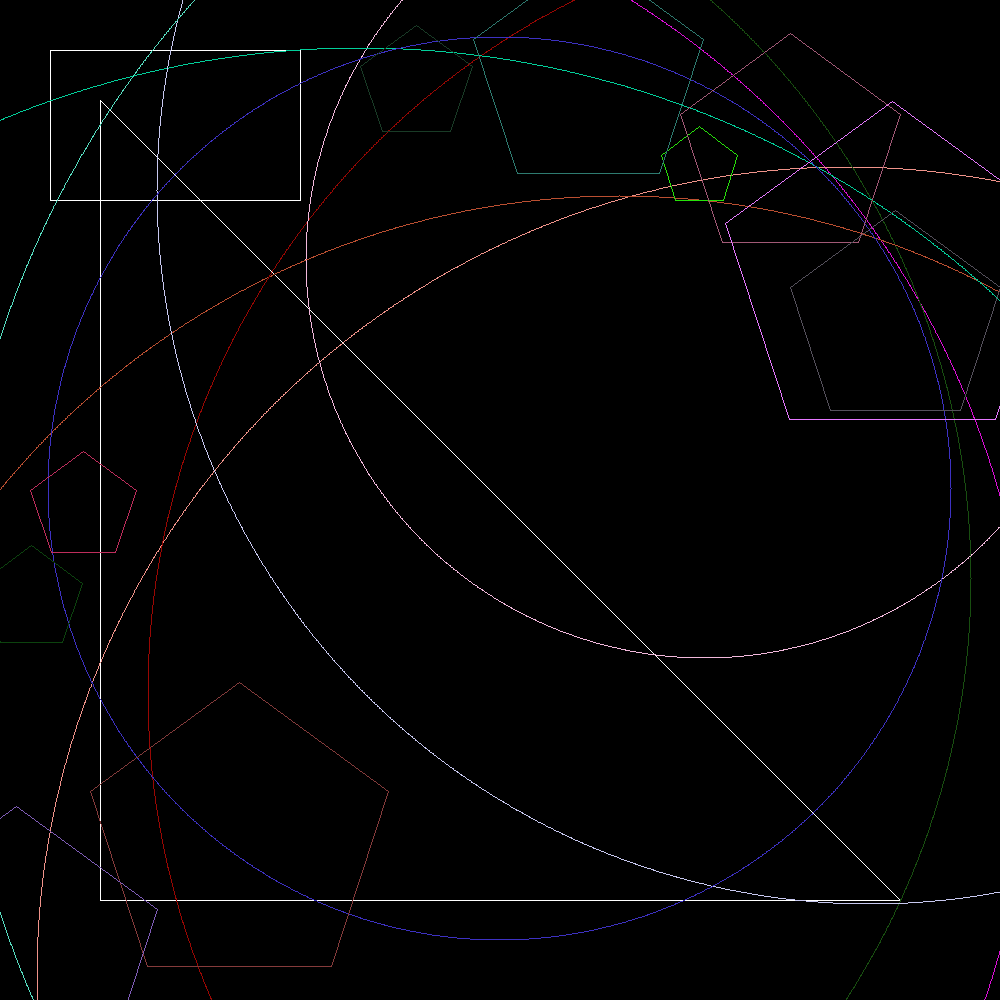
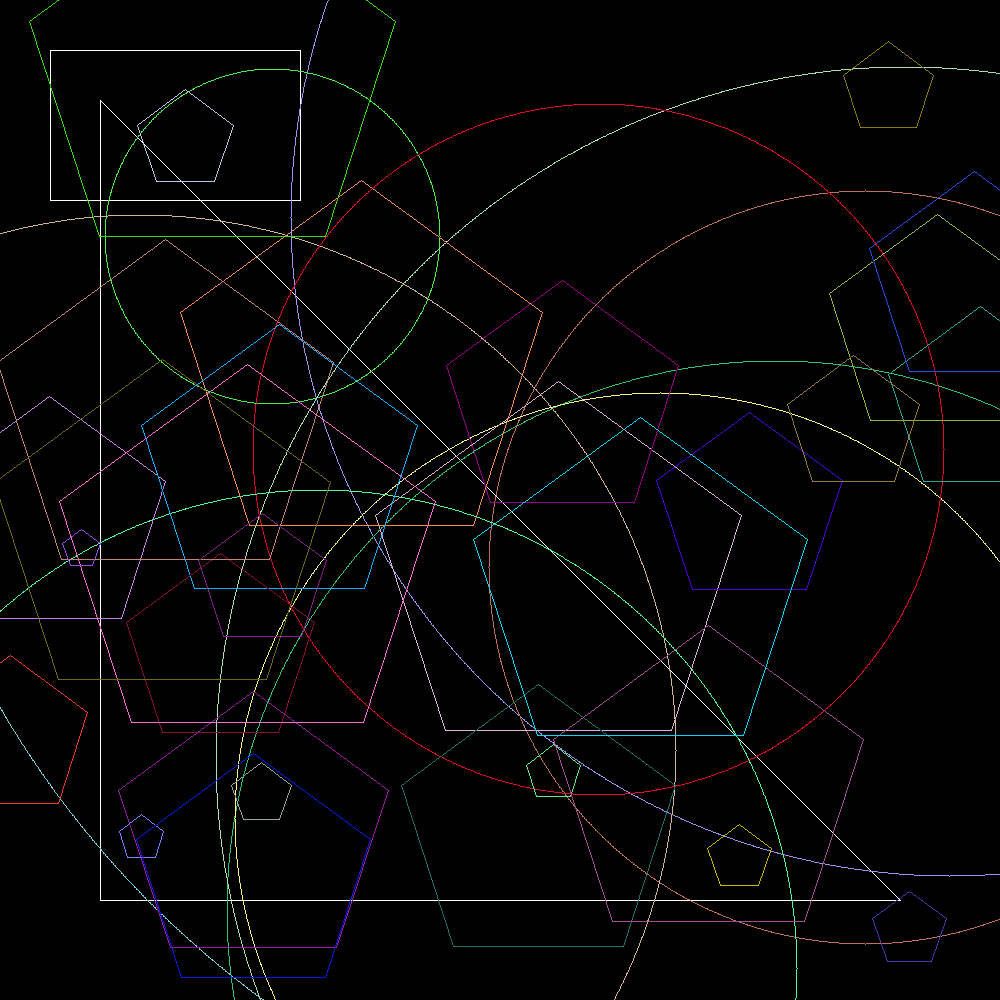
to push at gitea

diff --git a/geometrical_shapes/Main.java b/geometrical_shapes/Main.java
@@ -17,7 +17,7 @@ public class Main {
         }
 
 
-        for (int i = 0; i < 10; i++) {
+        for (int i = 0; i < 30; i++) {
             Pentagon pentagon = Pentagon.random(image.getWidth(), image.getHeight());
             pentagon.draw(image);
         }
